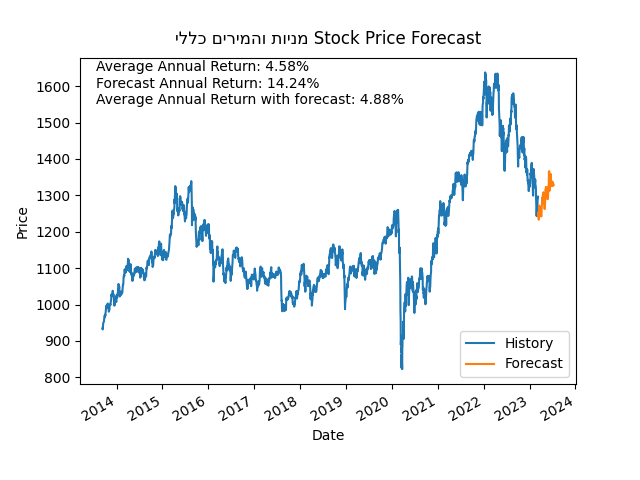
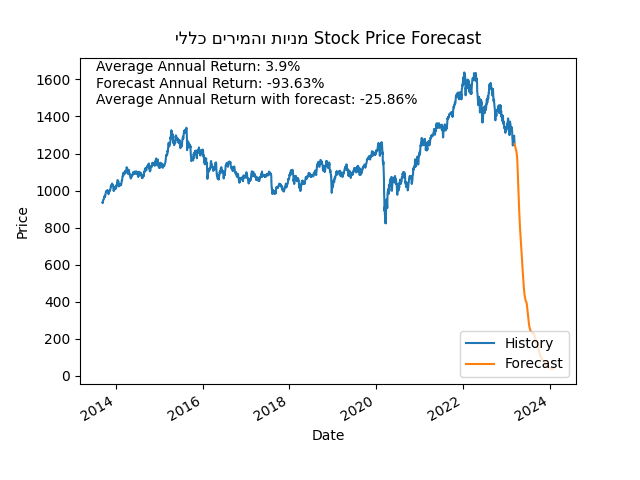
almost done

diff --git a/service/util/deep_learining/models.py b/service/util/deep_learining/models.py
@@ -21,21 +21,21 @@ import seaborn as sns
 from service.config import settings
 
 
-def Lstm(df=None, forecast_out=20, pct_change_mode=False, use_features=True) -> tuple[
+def Lstm(df=None, forecast_out=20, use_features=True) -> tuple[
     pd.DataFrame, np.longdouble, np.longdouble]:
     np.random.seed(1)
     start_date = df.index[0].strftime("%Y-%m-%d")
     end_date = df.index[-1].strftime("%Y-%m-%d")
     forecast_col = "Forecast"
     df[forecast_col] = df['Col']
-    days = 72
+    days = 20
     df['Label'] = df[forecast_col].pct_change().shift(-forecast_out)
     df = df.dropna(subset=['Label'])
     df = df[df['Label'] != 0.0]
 
     df_final = df.copy()
+    df_final = df_final.drop(['Forecast'], axis=1)
     df_final["Col"] = df_final["Col"].pct_change()
-    df_final["Forecast"] = df_final["Forecast"].pct_change()
 
     # drop weekends
     df_final['Date'] = pd.to_datetime(df_final.index)
@@ -57,7 +57,7 @@ def Lstm(df=None, forecast_out=20, pct_change_mode=False, use_features=True) -> 
         df_final[['GDP Growth Rate']] /= 90
         scaled_data = df_final
         # all tickers columns
-        tickers_cols_to_scale = scaled_data.columns.drop(['Label', 'Date', forecast_col, 'Col'] + cols_to_scale)
+        tickers_cols_to_scale = scaled_data.columns.drop(['Label', 'Date'] + cols_to_scale)
         scaled_data[tickers_cols_to_scale] *= 100
         # Sliding Window
         scaled_data = scaled_data.dropna(thresh=(scaled_data.shape[1] - 5))
@@ -109,7 +109,7 @@ def Lstm(df=None, forecast_out=20, pct_change_mode=False, use_features=True) -> 
     model.add(tf.keras.layers.BatchNormalization())
     model.add(tf.keras.layers.Dropout(rate=dropout))
     model.add(tf.keras.layers.LSTM(units=days, return_sequences=False))
-    # model.add(tf.keras.layers.BatchNormalization())
+    model.add(tf.keras.layers.BatchNormalization())
     model.add(tf.keras.layers.Dropout(rate=dropout))
     model.add(tf.keras.layers.Flatten())
     model.add(tf.keras.layers.Dense(64, activation='relu'))
@@ -120,7 +120,7 @@ def Lstm(df=None, forecast_out=20, pct_change_mode=False, use_features=True) -> 
     # create an early stopping callback
     early_stopping = EarlyStopping(monitor='val_loss', mode='min', verbose=1, patience=50)
 
-    opt = tf.keras.optimizers.legacy.Adam(lr=0.001, clipvalue=1.0)
+    opt = tf.keras.optimizers.legacy.Adam(learning_rate=0.001, clipvalue=1.0)
     # Compile model
     model.compile(
         loss='sparse_categorical_crossentropy',
@@ -130,7 +130,7 @@ def Lstm(df=None, forecast_out=20, pct_change_mode=False, use_features=True) -> 
     # model.compile(loss='mse', optimizer=opt)
 
     # Train the model
-    model.fit(X_train, y_train, epochs=10, batch_size=64, validation_split=0.15,
+    model.fit(X_train, y_train, epochs=5, batch_size=64, validation_split=0.15,
               callbacks=[early_stopping])  # add the early stopping callback here)
 
     # Predict on the test data
@@ -146,7 +146,7 @@ def Lstm(df=None, forecast_out=20, pct_change_mode=False, use_features=True) -> 
     date_values = scaled_data.index
 
     scaled_data['Forecast'] = np.nan
-    df_final[forecast_col] = np.nan
+    df[forecast_col] = np.nan
 
     last_date = scaled_data.iloc[-1].name
     last_unix = last_date.timestamp()
@@ -154,37 +154,23 @@ def Lstm(df=None, forecast_out=20, pct_change_mode=False, use_features=True) -> 
     next_unix = last_unix + one_day
 
     predictions = np.concatenate(predictions)
-    last_price = df_final["Col"].iloc[-1]
+    last_price = df["Col"].iloc[-1]
     predictions_df = pd.DataFrame(predictions)
     for i in predictions:
         next_date = datetime.datetime.fromtimestamp(next_unix)
         next_unix += 86400
         scaled_data.loc[next_date] = [np.nan for _ in range(len(scaled_data.columns) - 1)] + [i]
-        df_final.loc[next_date] = [np.nan for _ in range(len(df_final.columns) - 1)] + [i]
+        df.loc[next_date] = [np.nan for _ in range(len(df.columns) - 1)] + [i]
 
-        current_val = (1 + i) * last_price
+        current_val = (1 + i)/100 * last_price
 
         last_price = current_val
         # print(last_price)
-        df_final[forecast_col].loc[next_date] = current_val
+        df[forecast_col].loc[next_date] = current_val
 
-    # daily change and forecast
-    scaled_data['Label'].plot()
-    scaled_data['Forecast'].plot()
-    plt.legend(loc=4)
-    plt.xlabel('Date')
-    plt.ylabel('Precentage Change')
-    plt.show()
+    return df
 
-    annual_return = ((1 + df_final["Col"].mean()) ** 254 - 1) * 100
-    real_change = scaled_data['Forecast'].mean()
-    excepted_annual_return = ((1 + real_change) ** 254 - 1) * 100
 
-    return df_final, annual_return, excepted_annual_return
-
-    if use_features:
-        lstm_show_snap_graph(seq_len, input_features, X_test, shap_days=1, model=model)
-    return None, None, None
 
 
 # lstm helpers functions
@@ -466,11 +452,6 @@ def lstm_show_snap_graph(seq_len, input_features, X_test, shap_days, model):
     # shap          takes too long time
     # Initialize JS visualization code
 
-    shap.initjs()
-
-    # TODO unused
-    feature_names = [f"{feature}_{t}" for t in range(seq_len) for feature in input_features]
-
     # Define a predict function wrapper to handle 3D input
     def lstm_predict_wrapper(x):
         x = x.reshape((x.shape[0], seq_len, len(input_features)))  # Reshape to [samples, timesteps, features]
@@ -495,3 +476,6 @@ def lstm_show_snap_graph(seq_len, input_features, X_test, shap_days, model):
 
     # Create a summary plot of the aggregated SHAP values
     shap.summary_plot(aggregated_shap_values, feature_names=input_features)
+
+    # Save the plot to a file
+    plt.savefig(f'{settings.RESEARCH_LOCATION}LSTM_Final-Running.png')

diff --git a/service/util/helpers.py b/service/util/helpers.py
@@ -182,7 +182,7 @@ class Analyze:
     def lstm_model(self) -> tuple[pd.DataFrame, np.longdouble, np.longdouble]:
         df, forecast_out = self.get_final_dataframe()
         df.index = pd.to_datetime(self._table_index)
-        df = models.Lstm(df=df, forecast_out=forecast_out, pct_change_mode=False, use_features=True)
+        df = models.Lstm(df=df, forecast_out=forecast_out, use_features=True)
         forecast_with_historical_returns_annual, expected_returns = self.calculate_returns(df)
 
         return df, forecast_with_historical_returns_annual, expected_returns
